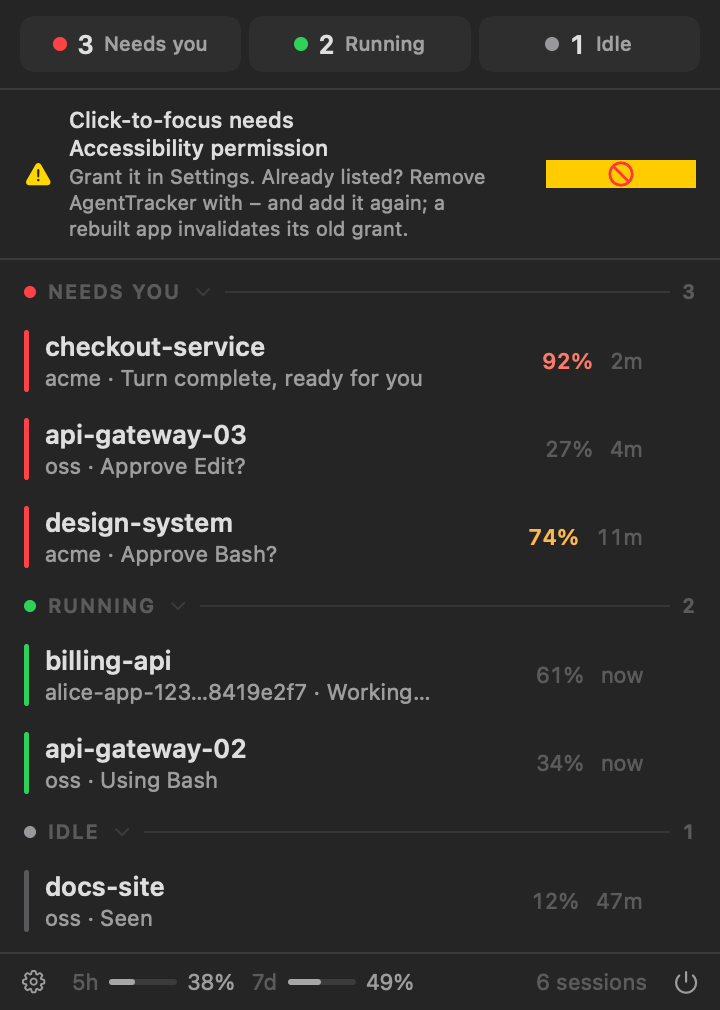
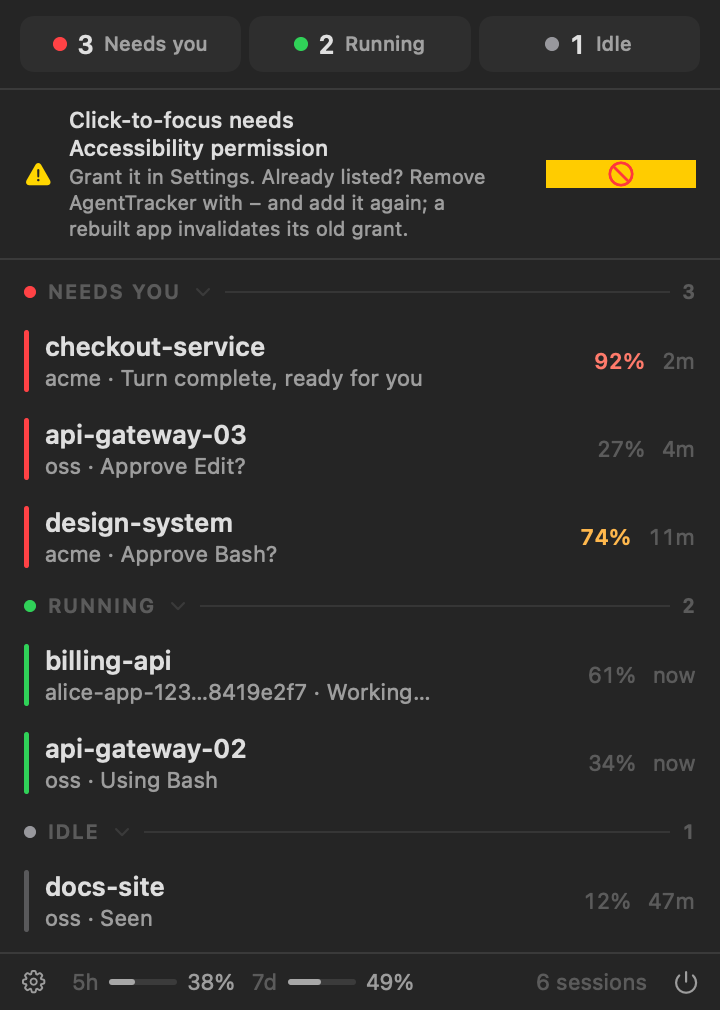
fix(ui): align time and usage to right edge on rows without stale-stop button
The trailing control space for the stale shell stop button was reserved on
every row regardless of whether the control actually rendered. This left a
dead 18pt gap on most rows, pushing timestamp and usage inward. Made the
reservation conditional: only reserved when session.staleBackgroundTask is
non-nil. Regenerated preview images reflecting the layout fix.

diff --git a/Sources/AgentTracker/MenuContentView.swift b/Sources/AgentTracker/MenuContentView.swift
@@ -756,8 +756,12 @@ struct SessionRow: View {
                 // of the HStack. #28's bug was reserving it before the arrow
                 // while the control was trailing-aligned, so the control painted
                 // on top of the glyph instead of into the gap left for it.
-                Color.clear
-                    .frame(width: Theme.Metrics.rowTrailingControl, height: 12)
+                // Reserved only when a control actually renders there — on every
+                // other row the timestamp owns the right edge.
+                if session.staleBackgroundTask != nil {
+                    Color.clear
+                        .frame(width: Theme.Metrics.rowTrailingControl, height: 12)
+                }
             }
             .padding(.horizontal, Theme.Metrics.rowHorizontalPadding)
             .padding(.vertical, Theme.Metrics.rowVerticalPadding)
